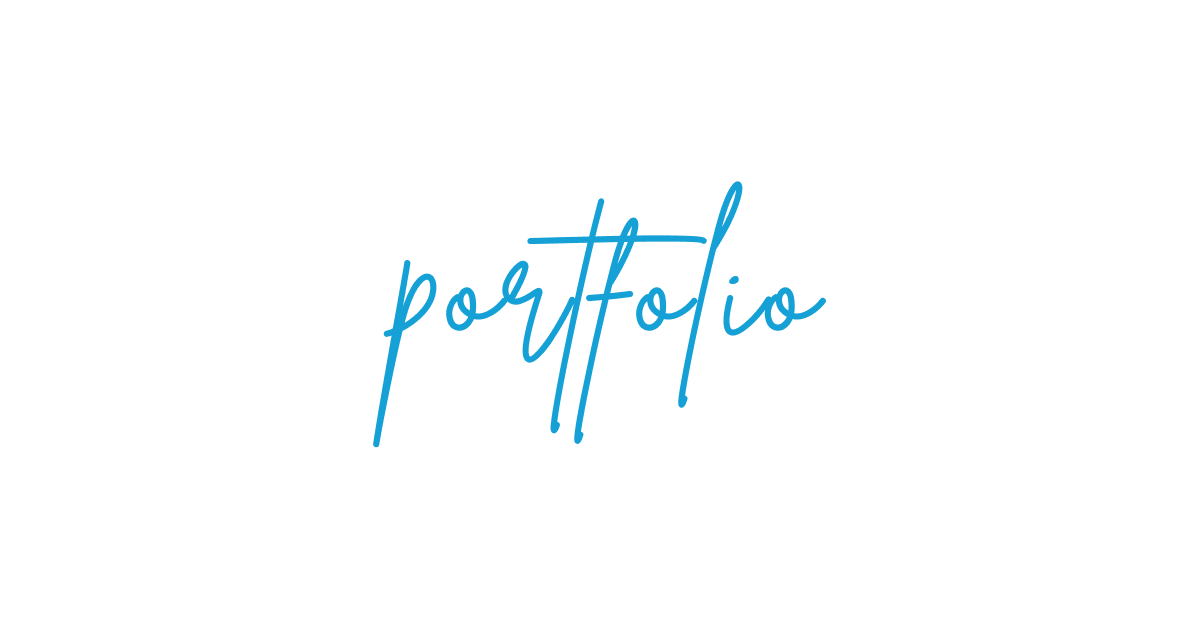
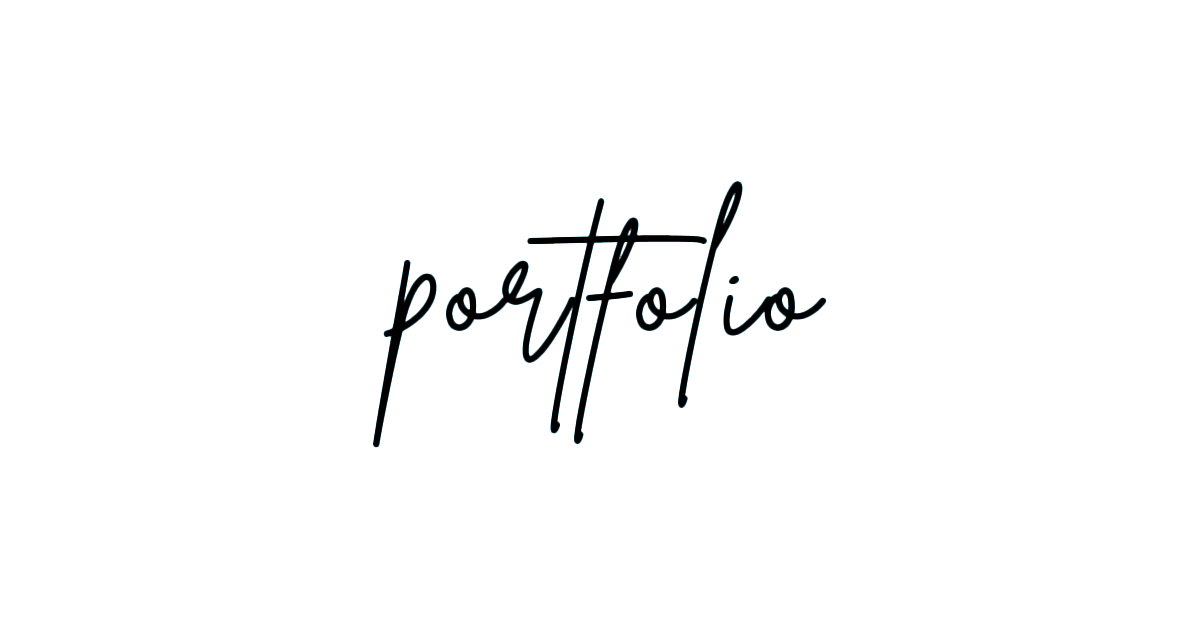
수정

Changed region(s): [[0.3083, 0.2714, 0.6783, 0.6937]]

diff --git a/index.html b/index.html
@@ -8,7 +8,7 @@
   <meta name="keywords" content="Pureum Portfolio">
   <meta name="description" content="Web 디자이너 성푸름의 포트폴리오입니다. 경험을 푸르게 디자인합니다.">
   <meta property="og:title" content="Pureum Portfolio">
-  <meta property="og:url" content="https://seongpurrum-coder.github.io/pureum-portfolio/">
+  <meta property="og:url" content="https://seongpurrum-coder.github.io/asang_portfolio/">
   <meta property="og:type" content="website">
   <meta property="og:image" content="https://seongpurrum-coder.github.io/portfolio/img/thumbnail.png">
   <meta property="og:description" content="Web 디자이너 성푸름의 포트폴리오입니다.">